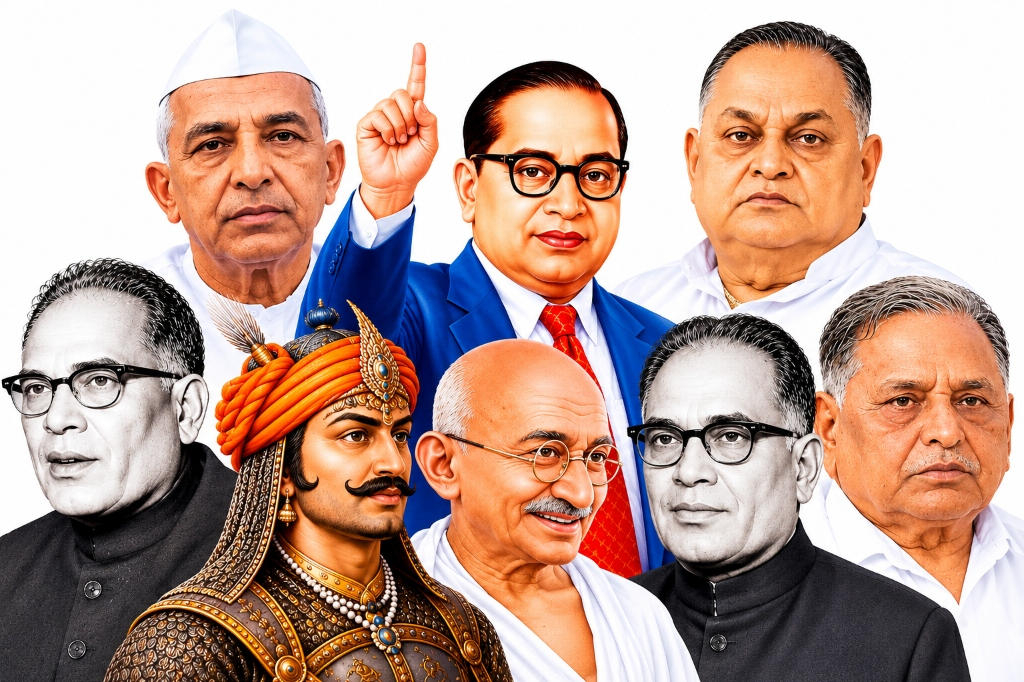
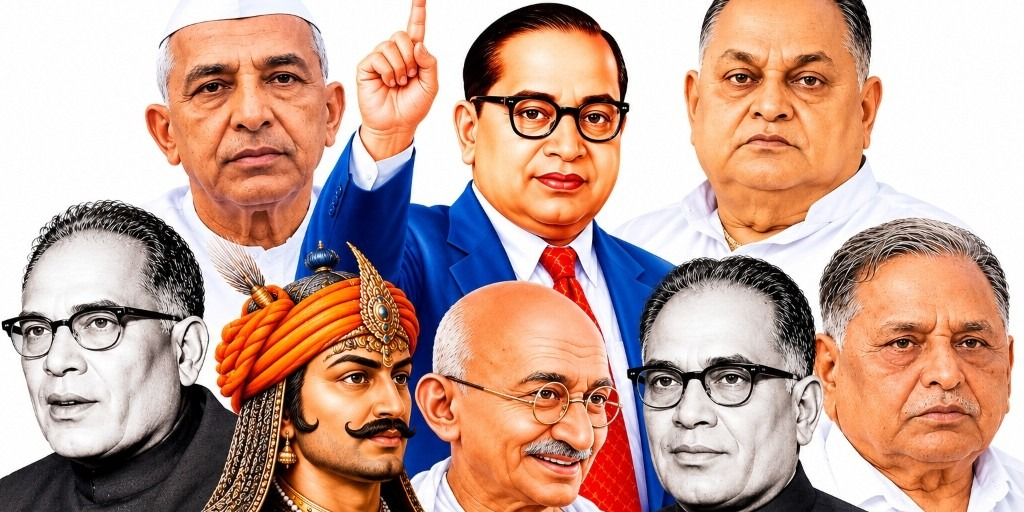
Update ideals hero background with widescreen 2:1 aspect ratio montage

diff --git a/src/app/[lang]/(portal)/ideals/page.tsx b/src/app/[lang]/(portal)/ideals/page.tsx
@@ -35,7 +35,7 @@ export default async function IdealsPage({ params }: PageProps<"/[lang]/ideals">
         titleSize="lg"
         bgImage="/images/ideals/ideals-hero-banner.jpg"
         bgImageAlt={tr(TITLE)}
-        bgTone="light"
+        bgImagePosition="object-center md:object-[right_center]"
       />
 
       <FeaturedQuote />
